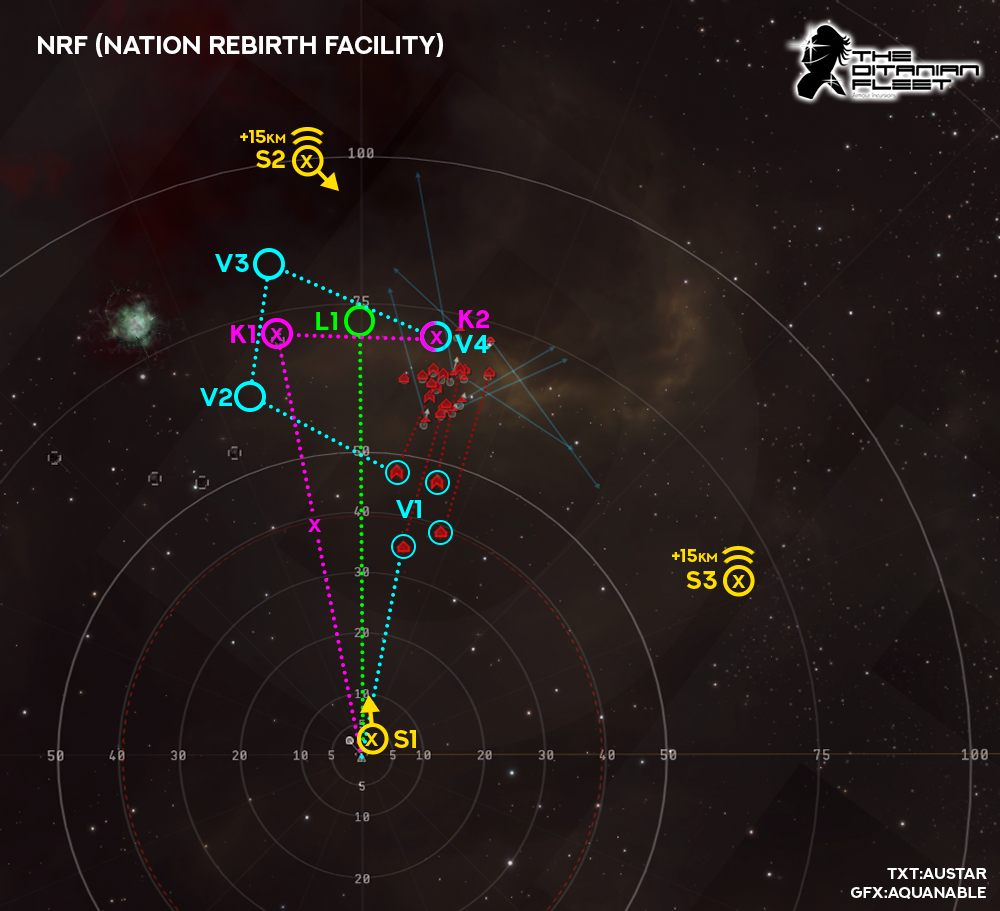
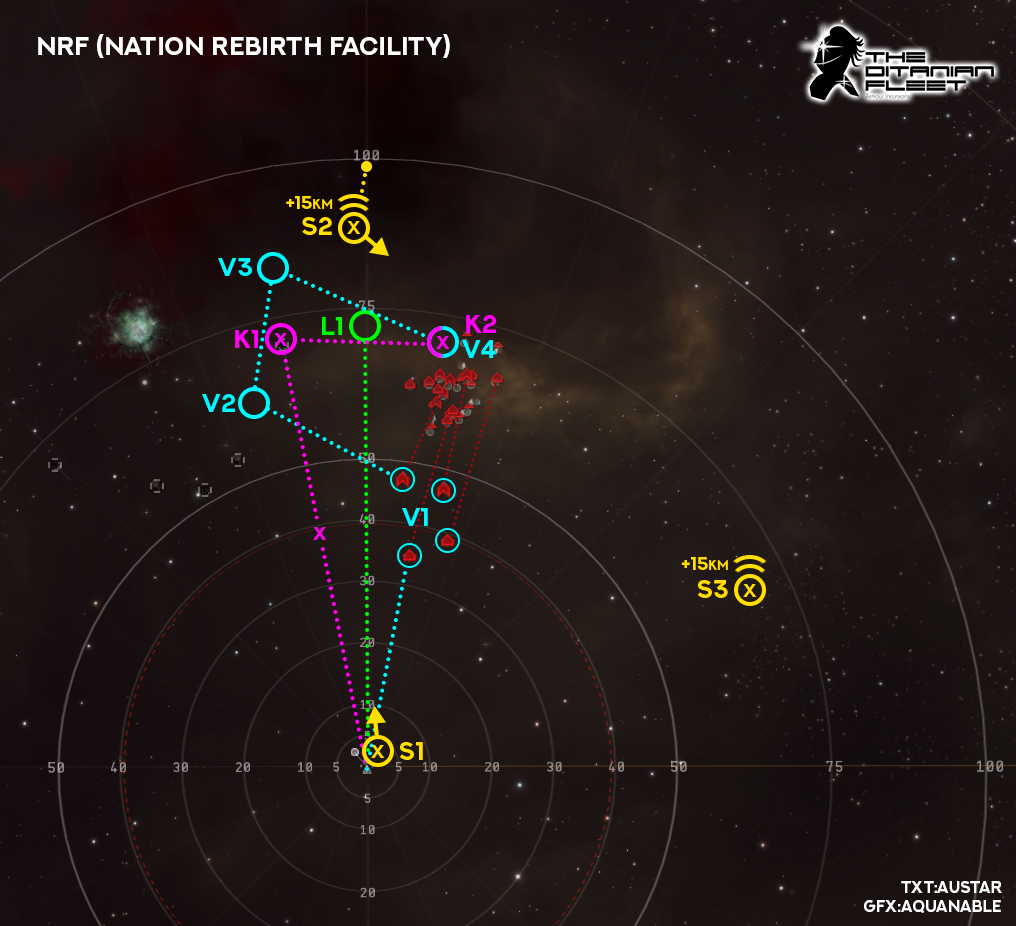
anchoring_guide_patch_14/10 (#15)

diff --git a/frontend/src/Pages/Guide/guides/dps/guide.md b/frontend/src/Pages/Guide/guides/dps/guide.md
@@ -1,23 +1,23 @@
 # Anchoring
 
-Below you will find visual and written guidance on anchoring, bastion points and when to Micro Jump Drive. However please remember this is for guidance only, different situations and events can and will change the course of your anchoring, bastion activation and MJD, so it is by no means a "one and only" guide. Hopefully it will serve to help newer pilots to understand where and when to anchor, bastion, & MJD. All guidance is subject to change too so check back as we continue to figure out the best way to keep our ISK/h going up. **Remember, FC instructions overrule any guidance!**
+Below you will find visual and written guidance on anchoring, bastion points and when to Micro Jump Drive. However please remember this is for guidance only, different situations and events can and will change the course of your anchoring, bastion activation and MJD, so it is by no means a "one and only" guide. Hopefully it will serve to help newer pilots to understand where and when to anchor, bastion, & MJD. If you are flying a Megathron you should follow the Vindicator guidance. All guidance is subject to change too so check back as we continue to figure out the best way to keep our ISK/h going up. **Remember, FC instructions overrule any guidance!**
 
 Note: All images are shown as a top-down overview of each room/site with the tactical overlay enabled. Each picture shows the start of 1st wave for each site/room.
 
 ## Legend
 
-|         Symbol         |          Meaning           |
-| :--------------------: | :------------------------: |
-|    ![](anchor.png)     |        Anchor point        |
-|    ![](bastion.png)    |       Bastion point        |
-|  ![](flight_path.png)  |        Flight path         |
-|      ![](mjd.png)      |       MJD Direction        |
-| ![](landing_point.png) |     MJD Landing point      |
-|   ![](elevation.png)   |     Elevation Distance     |
-|         K1/2/3         |       Kronos (pink)        |
-|        V1/2/3/4        |     Vindicator (blue)      |
-|         S1/2/3         | Paladin/Nightmare (yellow) |
-|           L1           |     Logistics (green)      |
+|         Symbol         |           Meaning           |
+| :--------------------: | :-------------------------: |
+|    ![](anchor.png)     |        Anchor point         |
+|    ![](bastion.png)    |        Bastion point        |
+|  ![](flight_path.png)  |         Flight path         |
+|      ![](mjd.png)      |        MJD Direction        |
+| ![](landing_point.png) |      MJD Landing point      |
+|   ![](elevation.png)   |     Elevation Distance      |
+|         K1/2/3         |        Kronos (pink)        |
+|        V1/2/3/4        | Vindicator/Megathron (blue) |
+|         S1/2/3         | Paladin/Nightmare (yellow)  |
+|           L1           |      Logistics (green)      |
 
 ## TPPH (True Power Provisional Headquarters)
 
@@ -27,7 +27,7 @@ Note: All images are shown as a top-down overview of each room/site with the tac
 
 Bastions:
 
-- Turn left, burn towards outgate (K1 & S1), start with Scorch/Null, bastion as soon as you reach top speed, you should be roughly 1/3 through your burn when you bastion (see x), this lets you drift towards outgate while maintaining bastion. Paladins should use Conflagration during bastion, Null for Kronos (unless all three battleships are within Void range).
+- Turn left, burn towards outgate (K1 & S1), start with Scorch/Null, bastion as soon as you reach top speed, you should be roughly 1/3 through your burn when you bastion (see x), this lets you drift towards outgate while maintaining bastion. Paladins should use Conflag during bastion, Null for Kronos (unless all three battleships are within Void range).
 
 Vindicator:
 
@@ -35,7 +35,7 @@ Vindicator:
 
 Nightmare:
 
-- Turn left, burn to outgate (S1), switch to Conflagration where appropriate to apply max DPS.
+- Turn left, burn to outgate (S1), switch to Conflag where appropriate to apply max DPS.
 
 Logistics:
 
@@ -47,7 +47,7 @@ Logistics:
 
 Bastions:
 
-- Start with Scorch/Null, burn towards outgate (K1 & S1), bastion as soon as you reach top speed (see x), drift towards outgate. Paladins switch to Conflagration once Sansha in range, Null for Kronos entire room unless several targets in Void range.
+- Start with Scorch/Null, burn towards outgate (K1 & S1), bastion as soon as you reach top speed (see x), drift towards outgate. Paladins switch to Conflag once Sansha in range, Null for Kronos entire room unless several targets in Void range.
 
 Vindicator:
 
@@ -55,7 +55,7 @@ Vindicator:
 
 Nightmare:
 
-- Burn straight to outgate (S1), switch to Conflagration where appropriate to apply max DPS.
+- Burn straight to outgate (S1), switch to Conflag where appropriate to apply max DPS.
 
 Logistics:
 
@@ -67,7 +67,7 @@ Logistics:
 
 Bastions:
 
-- Bastion one cycle as soon as you land on beacon (K1 & S1) use Scorch/Null "It's Tama Time!", once bastion cycle ends Q align to the left of tower and up, add roughly 20km for elevation. As Kronos you're aiming to jump right on-top of 2nd wave spawn (see pink MJD landing point), but you are burning 10km back (K2) to be in Void range for both 2nd & 3rd wave. As Paladin you want to MJD roughly 10km from 2nd wave spawn (see yellow MJD landing point) so that you land between the wave and tower, Paladins should also burn back 10km (S2) to be in optimal range with Conflagration of all wave spawns and tower. **Burning back here is VERY important for both bastion ships as it allows you to stay in bastion throughout both waves and be in optimal range of high DPS ammo.** Kronos should burn to the final anchor point (K3) once 3rd wave is nearly finished.
+- Bastion one cycle as soon as you land on beacon (K1 & S1) use Scorch/Null "It's Tama Time!", once bastion cycle ends Q align to the left of tower and up, add roughly 20km for elevation. As Kronos you're aiming to jump right on-top of 2nd wave spawn (see pink MJD landing point), but you are burning 10km back (K2) to be in Void range for both 2nd & 3rd wave. As Paladin you want to MJD roughly 10km from 2nd wave spawn (see yellow MJD landing point) so that you land between the wave and tower, Paladins should also burn back 10km (S2) to be in optimal range with Conflag of all wave spawns and tower. **Burning back here is VERY important for both bastion ships as it allows you to stay in bastion throughout both waves and be in optimal range of high DPS ammo.** Kronos should burn to the final anchor point (K3) once 3rd wave is nearly finished.
 
 Vindicator:
 
@@ -75,7 +75,7 @@ Vindicator:
 
 Nightmare:
 
-- When entering the room sit still, shoot targets as per FC instruction, once bastion cycles end for other pilots you want to MJD roughly 10km from 2nd wave spawn and make sure to add 20km or so elevation (see yellow MJD landing point) so that you land between the wave and tower, Nightmares should also burn back 10km (S2) to be in optimal range with Conflagration of all wave spawns and tower. Your anchors are the same as Paladins just without bastion cycles in them.
+- When entering the room sit still, shoot targets as per FC instruction, once bastion cycles end for other pilots you want to MJD roughly 10km from 2nd wave spawn and make sure to add 20km or so elevation (see yellow MJD landing point) so that you land between the wave and tower, Nightmares should also burn back 10km (S2) to be in optimal range with Conflag of all wave spawns and tower. Your anchors are the same as Paladins just without bastion cycles in them.
 
 Logistics:
 
@@ -87,7 +87,7 @@ Logistics:
 
 Bastions:
 
-- Paladins one cycle bastion as soon as you land on beacon (S1) once bastion cycle ends jump forward to anchor (S2) align slightly left and add about 15km elevation. You are aiming to land between the 2nd and 3rd wave spawns for Conflagration optimal range. Continue to bastion through 2nd and 3rd wave spawns shooting Conflagration, once 3rd wave is nearly dead align to next anchor (S3) and add roughly another 15km elevation to align _(this is a good time to bring in drones!)_. Once final wave spawns shoot Intaki, Outuni then jump to anchor (S3), bastion until 4th wave is nearly dead and make sure to use Conflagration, try to be out of bastion before the site finishes to ensure quick exit.
+- Paladins one cycle bastion as soon as you land on beacon (S1) once bastion cycle ends jump forward to anchor (S2) and add about 15km elevation. When you land **burn back toward beacon 10km**. You are aiming to land between the 2nd and 3rd wave spawns for Conflag optimal range. Continue to bastion through 2nd and 3rd wave spawns shooting Conflag, once 3rd wave is nearly dead align to next anchor (S3) and add roughly another 15km elevation to align _(this is a good time to bring in drones!)_. Once final wave spawns shoot Intaki, Outuni then jump to anchor (S3), bastion until 4th wave is nearly dead and make sure to use Conflag, try to be out of bastion before the site finishes to ensure quick exit.
 - Kronos should burn toward first anchor (K1) once at max speed bastion one cycle (see x enroute to K1) once bastion ends continue toward (K1) to anchor for 2nd and 3rd wave, bastion through 2nd wave and aim to finish your bastion cycle midway or earlier through 3rd wave, allowing you time to burn to (K2) anchor for 4th wave. Being in position in 4th wave is more important than being in bastion during 3rd wave as Kronos will apply more damage in 4th wave than any other!
 
 Vindicator:
@@ -96,7 +96,7 @@ Vindicator:
 
 Nightmare:
 
-- On entry to site sit still on beacon (S1), once mara is dead/bastion ends you can jump forward toward anchor point (S2), align slightly left and add about 15km elevation. You are aiming to land between the 2nd and 3rd wave spawns for Conflagration optimal range. Due to the long cooldown time of MJD for nightmares we recommend Nightmares to stay on the (S2) anchor to shoot CQC targets (the number tags) and not follow Paladins to the final (S3) anchor, should the next site be a TCRC or contest it is much more valuable to have your MJD off cooldown so you can make a jump if necessary.
+- On entry to site sit still on beacon (S1), once mara is dead/bastion ends you can jump forward toward anchor point (S2), align slightly left and add about 15km elevation. You are aiming to land between the 2nd and 3rd wave spawns for Conflag optimal range. Due to the long cooldown time of MJD for nightmares we recommend Nightmares to stay on the (S2) anchor to shoot CQC targets (the number tags) and not follow Paladins to the final (S3) anchor, should the next site be a TCRC or contest it is much more valuable to have your MJD off cooldown so you can make a jump if necessary.
 
 Logistics:
 
